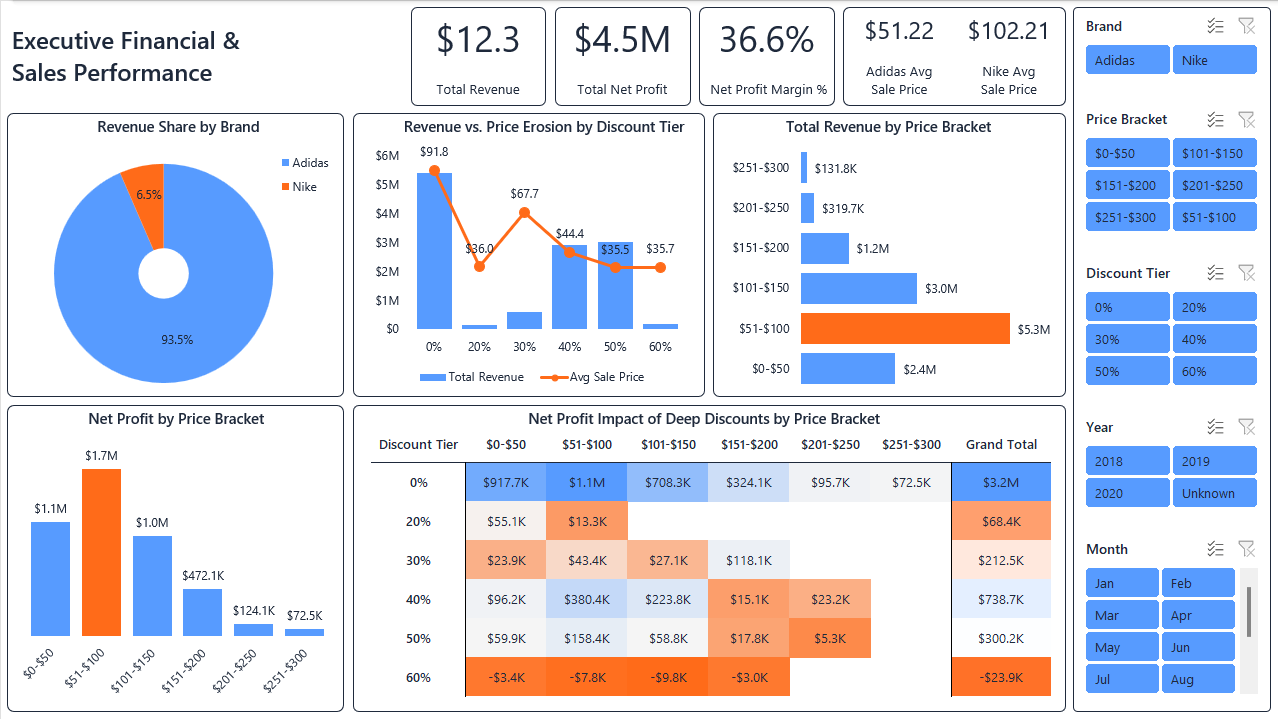
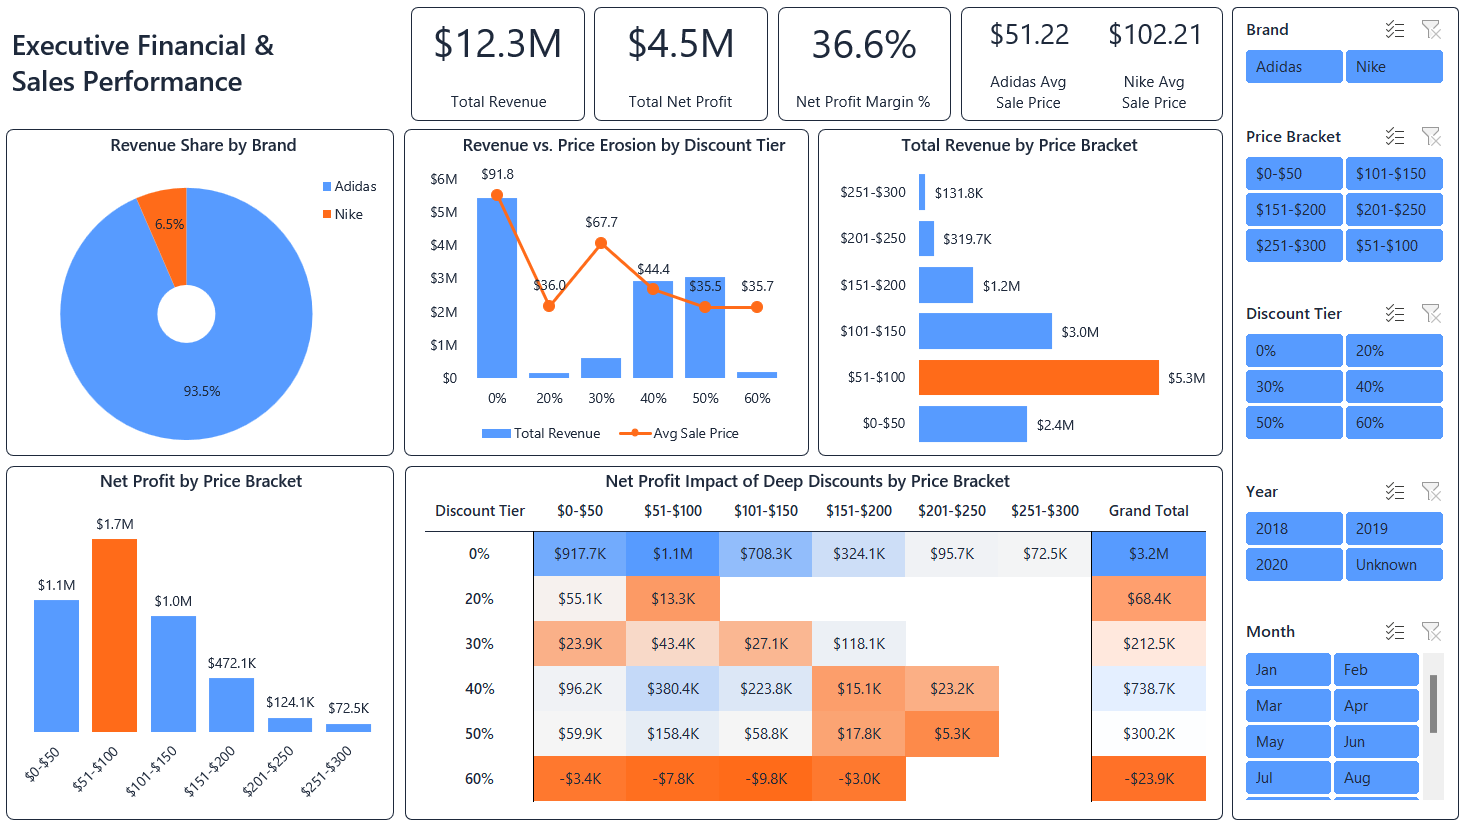
new

diff --git a/README.md b/README.md
@@ -75,9 +75,8 @@ To ensure the dashboard dynamically updates without manual intervention, the wor
 #### Strategic Questions & Findings:
 1. **What is the total revenue generated, and how does the revenue share split between Adidas and Nike?**
    * **Insight:** Total business revenue reached **$12.3M** with an *estimated* net profit of **$4.5M** (36.6% margin). Revenue share is heavily dominated by Adidas (**93.5%**), while Nike accounts for **6.5%**.
-
 2. **What is the optimal discount tier (e.g., 0%, 20%, 50%) that maximizes total revenue without heavily eroding the base price?**
-   * **Insight:** The **0% discount tier (full price)** generates the majority of revenue (**~$5.4M**) at the highest average sale price (**$91.80**). Among discounted items, the **40% tier** captures the highest revenue (**~$3.0M**), though average sale price drops to **$44.40**.
+   * **Insight:** The **0% discount tier (full price)** generates the majority of revenue (**~$5.4M**) at the highest average sale price (**$91.80**). Among discounted items, the **50% tier** captures the highest revenue (**~$3.0M**), followed closely by the **40% tier (~$2.9M)**, though average sale price drops to **$35.50**.
 3. **How does total revenue distribute across different product price brackets?**
    * **Insight:** Revenue is heavily concentrated in the lower-to-mid brackets: the **$51–$100 bracket** leads by far (**$5.3M**), followed by **$101–$150 ($3.0M)** and **$0–$50 ($2.4M)**. Higher price brackets ($151+) contribute minimal revenue.
 4. **How do average sale prices compare between the two brands?**
@@ -85,7 +84,7 @@ To ensure the dashboard dynamically updates without manual intervention, the wor
 5. **Are there specific product price brackets (e.g., $0-$50, $51-$100) that drive the majority of the business's bottom line?**
    * **Insight:** Yes. The **$51–$100 bracket** drives the highest bottom line (**$1.7M net profit**), followed by **$0–$50 ($1.1M)** and **$101–$150 ($1.0M)**.
 6. **How do deep discounts impact the net profit across different price brackets?**
-   * **Insight:** Deep discounting at the **60% threshold** completely destroys unit economics, generating **negative net profit across every single price bracket** (totaling **-$23.9K**).
+   * **Insight:** Deep discounting at the **60% threshold** completely destroys unit economics, generating **negative net profit across every bracket where 60%-off items exist** (totaling **-$23.9K**).
 
 ### Page 2: Merchandising & Product Analytics
 
@@ -99,8 +98,7 @@ To ensure the dashboard dynamically updates without manual intervention, the wor
 3. **Which specific products have the highest discrepancy between their original listing price and actual sale price?**
    * **Insight:** Footwear SKUs `BB9335` and `BB9420` lead the catalog with the highest absolute dollar gap, each dropping **$115** from listing to sale price, followed closely by `G28940` (**$114 gap**).
 4. **Do products with longer, more detailed descriptions correlate with higher sales performance?**
-   * **Insight:** While overall statistical correlation is weak ($r = 0.23$), products in the **200–299 character bucket** strongly outperform all others, driving the highest **implied sales volume** and capturing the highest total revenue (**~$6.8M**).
-
+   * **Insight:** While overall statistical correlation is weak ($r = 0.23$, computed via `=CORREL()` in `Merchandising_Engine2`), products in the **200–299 character bucket** strongly outperform all others, driving the highest **implied sales volume** and capturing the highest total revenue (**~$6.8M**).
 5. **Are there "sleeping giants"—products with high listing prices and low discounts that still generate top-tier revenue?**
    * **Insight:** Yes. Several premium SKUs priced between **$170 and $300** sell at **0% discount (full price)** yet still generate top-tier revenue, led by `FV7826` (**$37.2K**) and `FV6794` (**$35.0K**).
 